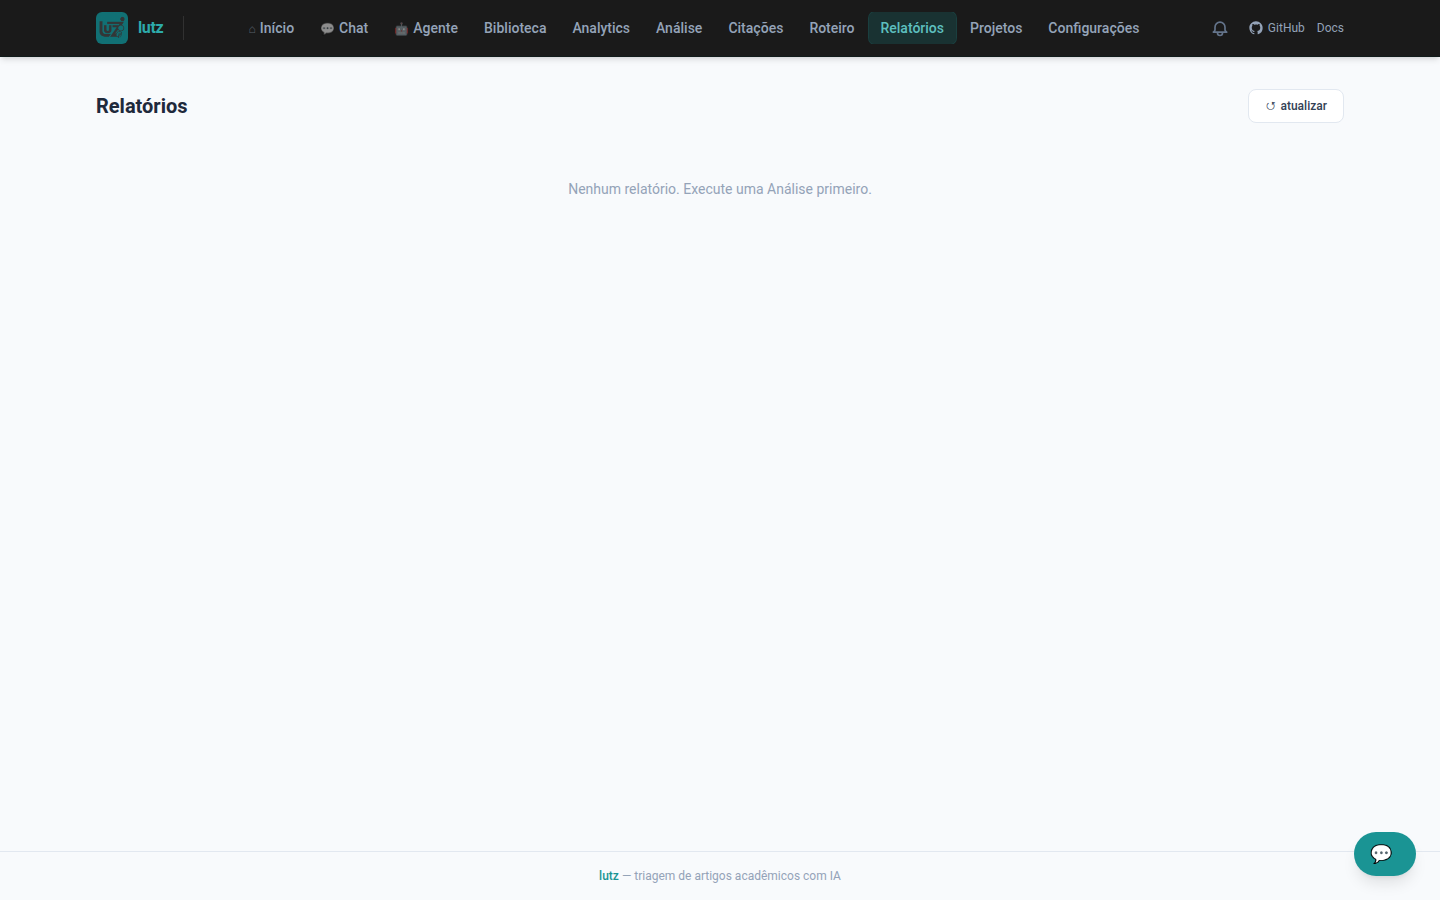
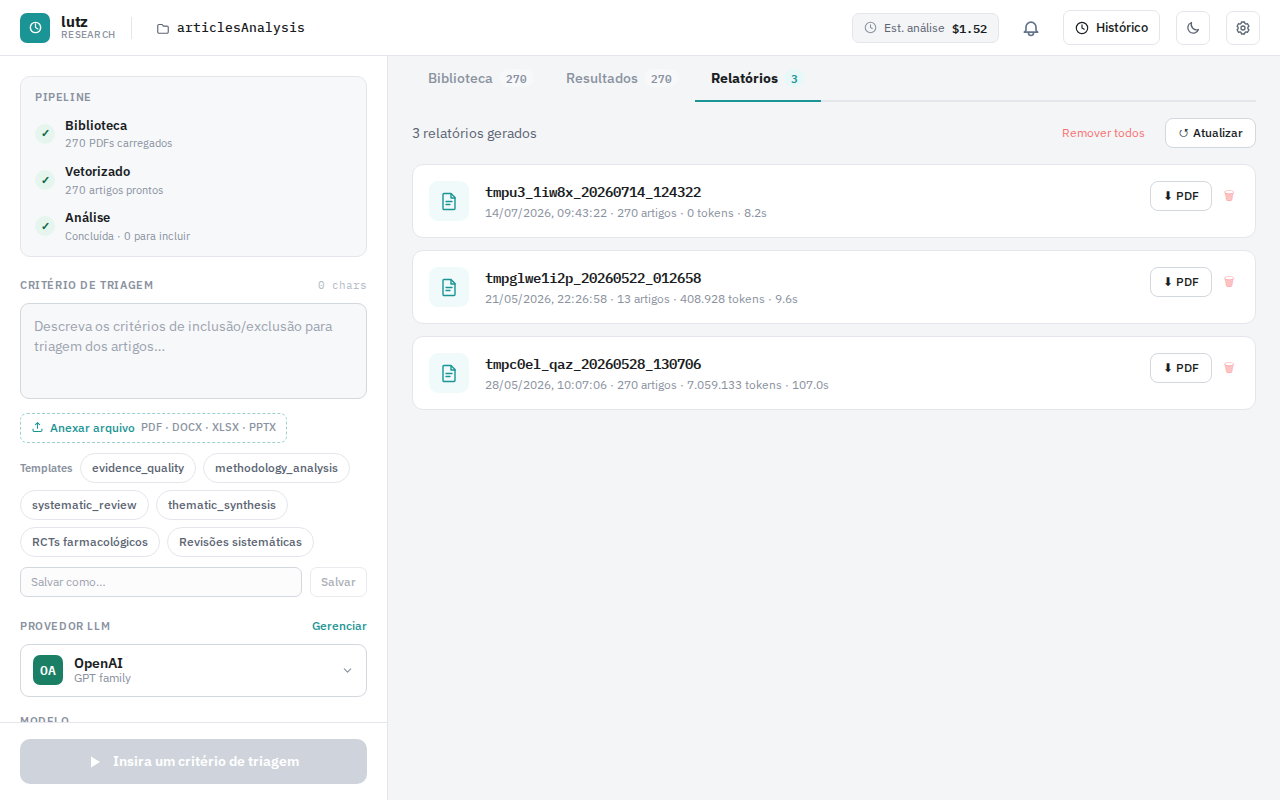
feat(web): tour interativo pela interface + corrige docs e screenshots
- Adiciona tour guiado (driver.js) com 12 passos cobrindo: boas-vindas,
  pipeline, 3 abas, critério de triagem, templates, provider, botão de
  análise, custo, histórico e configurações
- Botão "Tour" na barra superior ao lado de Histórico
- CSS customizado para popovers no estilo visual do Lutz
- Corrige screenshots para docs/public/screenshots/ (pasta servida pelo VitePress)
- Atualiza sidebar do VitePress com nova estrutura de páginas (v0.5.0)

diff --git a/web/src/hooks/useTour.ts b/web/src/hooks/useTour.ts
@@ -1,0 +1,157 @@
+import { driver } from 'driver.js'
+import 'driver.js/dist/driver.css'
+
+export function useTour() {
+  function startTour() {
+    const driverObj = driver({
+      showProgress: true,
+      progressText: '{{current}} de {{total}}',
+      nextBtnText: 'Próximo →',
+      prevBtnText: '← Anterior',
+      doneBtnText: 'Concluir',
+      animate: true,
+      overlayOpacity: 0.55,
+      stagePadding: 8,
+      stageRadius: 10,
+      popoverClass: 'lutz-tour-popover',
+      steps: [
+        {
+          popover: {
+            title: '👋 Bem-vindo ao Lutz!',
+            description:
+              'Este tour rápido mostra os elementos principais da interface. ' +
+              'Use as setas para navegar ou pressione <kbd>Esc</kbd> para sair.',
+            align: 'center',
+          },
+        },
+        {
+          element: '#tour-pipeline',
+          popover: {
+            title: 'Pipeline de trabalho',
+            description:
+              'Acompanhe o progresso em três etapas: ' +
+              '<b>Biblioteca</b> (PDFs carregados) → <b>Vetorizado</b> (artigos indexados) → <b>Análise</b> (resultado). ' +
+              'Cada etapa só fica disponível quando a anterior é concluída.',
+            side: 'right',
+            align: 'start',
+          },
+        },
+        {
+          element: '#tour-tab-biblioteca',
+          popover: {
+            title: 'Aba Biblioteca',
+            description:
+              'Lista todos os artigos PDF do projeto. Aqui você carrega novos arquivos, ' +
+              'renomeia automaticamente com IA e inicia a vetorização.',
+            side: 'bottom',
+            align: 'start',
+          },
+        },
+        {
+          element: '#tour-tab-resultados',
+          popover: {
+            title: 'Aba Resultados',
+            description:
+              'Exibe os veredictos gerados pela análise RAG para cada artigo: ' +
+              '<b>Incluir</b>, <b>Excluir</b> ou <b>Incerto</b>. ' +
+              'Expanda um artigo para ver a justificativa completa do modelo.',
+            side: 'bottom',
+            align: 'start',
+          },
+        },
+        {
+          element: '#tour-tab-relatorios',
+          popover: {
+            title: 'Aba Relatórios',
+            description:
+              'Lista todos os relatórios gerados pelas análises anteriores. ' +
+              'Baixe em PDF ou remova relatórios antigos.',
+            side: 'bottom',
+            align: 'start',
+          },
+        },
+        {
+          element: '#tour-criteria',
+          popover: {
+            title: 'Critério de triagem',
+            description:
+              'Descreva aqui os critérios de inclusão e exclusão da sua revisão sistemática. ' +
+              'Este texto é o prompt enviado ao LLM — quanto mais específico, melhor a triagem.',
+            side: 'right',
+            align: 'start',
+          },
+        },
+        {
+          element: '#tour-templates',
+          popover: {
+            title: 'Templates de prompt',
+            description:
+              'Clique num template para carregá-lo no campo de triagem. ' +
+              'Salve seus próprios critérios com o campo "Salvar como…" para reutilizá-los depois.',
+            side: 'right',
+            align: 'start',
+          },
+        },
+        {
+          element: '#tour-provider',
+          popover: {
+            title: 'Provedor LLM',
+            description:
+              'Selecione o provedor e modelo que o Lutz usará para analisar os artigos. ' +
+              'Clique em <b>Gerenciar</b> para configurar chaves de API e URL base.',
+            side: 'right',
+            align: 'start',
+          },
+        },
+        {
+          element: '#tour-run-btn',
+          popover: {
+            title: '▶ Iniciar análise',
+            description:
+              'Com artigos vetorizados e um critério preenchido, este botão dispara a análise RAG. ' +
+              'Os veredictos aparecem em tempo real na aba Resultados.',
+            side: 'top',
+            align: 'center',
+          },
+        },
+        {
+          element: '#tour-cost',
+          popover: {
+            title: 'Estimativa de custo',
+            description:
+              'Custo estimado da próxima análise em USD, calculado com base no número de chunks ' +
+              'vetorizados e no preço por token do modelo selecionado.',
+            side: 'bottom',
+            align: 'end',
+          },
+        },
+        {
+          element: '#tour-history',
+          popover: {
+            title: 'Histórico de análises',
+            description:
+              'Abre um painel lateral com as execuções anteriores — data, modelo, tokens e duração. ' +
+              'Clique em "Ver todos" para ir direto aos relatórios.',
+            side: 'bottom',
+            align: 'end',
+          },
+        },
+        {
+          element: '#tour-settings',
+          popover: {
+            title: '⚙ Configurações',
+            description:
+              'Ajuste provedor LLM, modelo de embedding, chaves de API e idioma da interface. ' +
+              'As mudanças entram em vigor imediatamente, sem reiniciar o servidor.',
+            side: 'bottom',
+            align: 'end',
+          },
+        },
+      ],
+    })
+
+    driverObj.drive()
+  }
+
+  return { startTour }
+}

diff --git a/web/src/index.css b/web/src/index.css
@@ -119,3 +119,70 @@
 }
 .dark ::-webkit-scrollbar-thumb { background: #2e3340; }
 .dark ::-webkit-scrollbar-thumb:hover { background: #3a3f4d; }
+
+/* ── Driver.js tour customization ── */
+.lutz-tour-popover.driver-popover {
+  font-family: 'IBM Plex Sans', sans-serif;
+  border-radius: 12px;
+  padding: 20px 22px 18px;
+  box-shadow: 0 16px 48px rgba(20, 25, 40, 0.22);
+  border: 1px solid #e4e6eb;
+  max-width: 340px;
+}
+.lutz-tour-popover .driver-popover-title {
+  font-size: 15px;
+  font-weight: 700;
+  color: #1a1d23;
+  margin-bottom: 8px;
+}
+.lutz-tour-popover .driver-popover-description {
+  font-size: 13.5px;
+  color: #4b5563;
+  line-height: 1.6;
+}
+.lutz-tour-popover .driver-popover-description kbd {
+  display: inline-block;
+  padding: 1px 5px;
+  border-radius: 4px;
+  background: #f4f5f7;
+  border: 1px solid #d1d5db;
+  font-size: 11px;
+  font-family: 'IBM Plex Mono', monospace;
+}
+.lutz-tour-popover .driver-popover-footer {
+  margin-top: 16px;
+  gap: 8px;
+}
+.lutz-tour-popover .driver-popover-next-btn,
+.lutz-tour-popover .driver-popover-done-btn {
+  background: #1A9494;
+  border: none;
+  border-radius: 7px;
+  color: #fff;
+  font-weight: 600;
+  font-size: 13px;
+  padding: 7px 14px;
+  cursor: pointer;
+}
+.lutz-tour-popover .driver-popover-next-btn:hover,
+.lutz-tour-popover .driver-popover-done-btn:hover {
+  background: #157878;
+}
+.lutz-tour-popover .driver-popover-prev-btn {
+  border-radius: 7px;
+  font-size: 13px;
+  padding: 7px 12px;
+  color: #5b6472;
+  border: 1px solid #e4e6eb;
+  background: none;
+  cursor: pointer;
+}
+.lutz-tour-popover .driver-popover-prev-btn:hover {
+  background: #f4f5f7;
+}
+.lutz-tour-popover .driver-popover-progress-text {
+  font-size: 11.5px;
+  color: #9aa3b0;
+  font-family: 'IBM Plex Mono', monospace;
+}
+.driver-overlay { backdrop-filter: none; }

diff --git a/web/src/AppShell.tsx b/web/src/AppShell.tsx
@@ -15,6 +15,7 @@ import ResultadosTab from './tabs/ResultadosTab'
 import RelatoriosTab from './tabs/RelatoriosTab'
 import HistoryDrawer from './components/HistoryDrawer'
 import SettingsModal from './components/SettingsModal'
+import { useTour } from './hooks/useTour'
 
 // ── Constants ─────────────────────────────────────────────────────────────────
 
@@ -108,6 +109,9 @@ export default function AppShell() {
   const [analysisLogs, setAnalysisLogs] = useState<string[]>([])
   const [analysisDone, setAnalysisDone] = useState<boolean | null>(null)
   const ctrlRef = useRef<AbortController | null>(null)
+
+  // ── Tour ──
+  const { startTour } = useTour()
 
   // ── UI state ──
   const [activeTab, setActiveTab] = useState<Tab>('biblioteca')
@@ -396,7 +400,7 @@ export default function AppShell() {
         <div style={{ flex: 1 }} />
 
         {/* Cost chip */}
-        <div style={{
+        <div id="tour-cost" style={{
           display: 'flex', alignItems: 'center', gap: 7, padding: '5px 11px',
           background: 'var(--surface-3)', border: '1px solid var(--border)', borderRadius: 7, whiteSpace: 'nowrap',
         }}>
@@ -411,8 +415,22 @@ export default function AppShell() {
         {/* Notifications */}
         <NotificationsPanel />
 
+        {/* Tour button */}
+        <button id="tour-trigger" onClick={startTour} title="Tour pela interface" style={{
+          display: 'flex', alignItems: 'center', gap: 6, background: 'none',
+          border: '1px solid var(--border)', cursor: 'pointer', padding: '7px 11px',
+          borderRadius: 7, color: 'var(--text-muted)', fontSize: 13, fontWeight: 500,
+        }}>
+          <svg width="14" height="14" viewBox="0 0 16 16" fill="none">
+            <circle cx="8" cy="8" r="6.5" stroke="currentColor" strokeWidth="1.3"/>
+            <path d="M6.5 6a1.5 1.5 0 1 1 2.1 1.4c-.4.2-.6.5-.6.9V9" stroke="currentColor" strokeWidth="1.3" strokeLinecap="round"/>
+            <circle cx="8" cy="11" r=".7" fill="currentColor"/>
+          </svg>
+          Tour
+        </button>
+
         {/* History button */}
-        <button onClick={() => setShowHistory(v => !v)} style={{
+        <button id="tour-history" onClick={() => setShowHistory(v => !v)} style={{
           display: 'flex', alignItems: 'center', gap: 7, background: 'none',
           border: '1px solid var(--border)', cursor: 'pointer', padding: '7px 11px',
           borderRadius: 7, color: 'var(--text)', fontSize: 13, fontWeight: 500,
@@ -445,7 +463,7 @@ export default function AppShell() {
         </button>
 
         {/* Settings */}
-        <button onClick={() => setShowSettings(v => !v)} style={{
+        <button id="tour-settings" onClick={() => setShowSettings(v => !v)} style={{
           width: 34, height: 34, display: 'flex', alignItems: 'center', justifyContent: 'center',
           background: 'none', border: '1px solid var(--border)', cursor: 'pointer', borderRadius: 7,
           color: 'var(--text-muted)',
@@ -469,7 +487,7 @@ export default function AppShell() {
           <div style={{ flex: 1, overflowY: 'auto', padding: 20 }}>
 
             {/* Pipeline status */}
-            <div style={{
+            <div id="tour-pipeline" style={{
               marginBottom: 20, background: 'var(--surface-2)', border: '1px solid var(--border)',
               borderRadius: 10, padding: '12px 14px',
             }}>
@@ -534,7 +552,7 @@ export default function AppShell() {
             </div>
 
             {/* Prompt */}
-            <div style={{ marginBottom: 20 }}>
+            <div id="tour-criteria" style={{ marginBottom: 20 }}>
               <div style={{ display: 'flex', alignItems: 'center', justifyContent: 'space-between', marginBottom: 9 }}>
                 <div className="section-label">Critério de triagem</div>
                 <span style={{ fontSize: 11, color: '#b6bcc7', fontFamily: 'IBM Plex Mono, monospace' }}>
@@ -628,7 +646,7 @@ export default function AppShell() {
               </div>
 
               {/* Templates row */}
-              <div style={{ display: 'flex', flexWrap: 'wrap', gap: 7, marginTop: 10 }}>
+              <div id="tour-templates" style={{ display: 'flex', flexWrap: 'wrap', gap: 7, marginTop: 10 }}>
                 <span style={{ fontSize: 11, fontWeight: 600, color: '#8a92a0', alignSelf: 'center', marginRight: 1 }}>
                   Templates
                 </span>
@@ -678,7 +696,7 @@ export default function AppShell() {
             </div>
 
             {/* Provider */}
-            <div style={{ marginBottom: 16 }}>
+            <div id="tour-provider" style={{ marginBottom: 16 }}>
               <div style={{ display: 'flex', alignItems: 'center', justifyContent: 'space-between', marginBottom: 9 }}>
                 <div className="section-label">Provedor LLM</div>
                 <button onClick={() => setShowSettings(true)}
@@ -796,7 +814,7 @@ export default function AppShell() {
           </div>
 
           {/* Analyze button */}
-          <div style={{ flexShrink: 0, padding: '16px 20px', background: 'var(--surface)', borderTop: '1px solid var(--border)' }}>
+          <div id="tour-run-btn" style={{ flexShrink: 0, padding: '16px 20px', background: 'var(--surface)', borderTop: '1px solid var(--border)' }}>
             <button onClick={runAnalysis} disabled={!canAnalyze} style={{
               width: '100%', display: 'flex', alignItems: 'center', justifyContent: 'center', gap: 9,
               padding: 12, border: 'none', borderRadius: 10, fontSize: 14, fontWeight: 600, color: '#fff',
@@ -830,7 +848,7 @@ export default function AppShell() {
             {TABS.map(tab => {
               const active = activeTab === tab.id
               return (
-                <button key={tab.id} onClick={() => setActiveTab(tab.id)} style={{
+                <button key={tab.id} id={`tour-tab-${tab.id}`} onClick={() => setActiveTab(tab.id)} style={{
                   padding: '12px 16px', border: 'none', background: 'none', cursor: 'pointer',
                   fontSize: 13.5, fontWeight: active ? 700 : 500,
                   color: active ? 'var(--text)' : 'var(--text-faint)',

diff --git a/docs/guide/interface/configuracoes.md b/docs/guide/interface/configuracoes.md
@@ -2,7 +2,7 @@
 
 O modal de **Configurações** é acessado pelo ícone ⚙ no canto superior direito da interface. Ele permite ajustar provedores de LLM e embedding, chaves de API, URL base e idioma — tudo salvo no `.env` do projeto.
 
-![Modal de Configurações](/screenshots/settings.png)
+![Modal de Configurações](/screenshots/configuracoes.png)
 
 ---
 